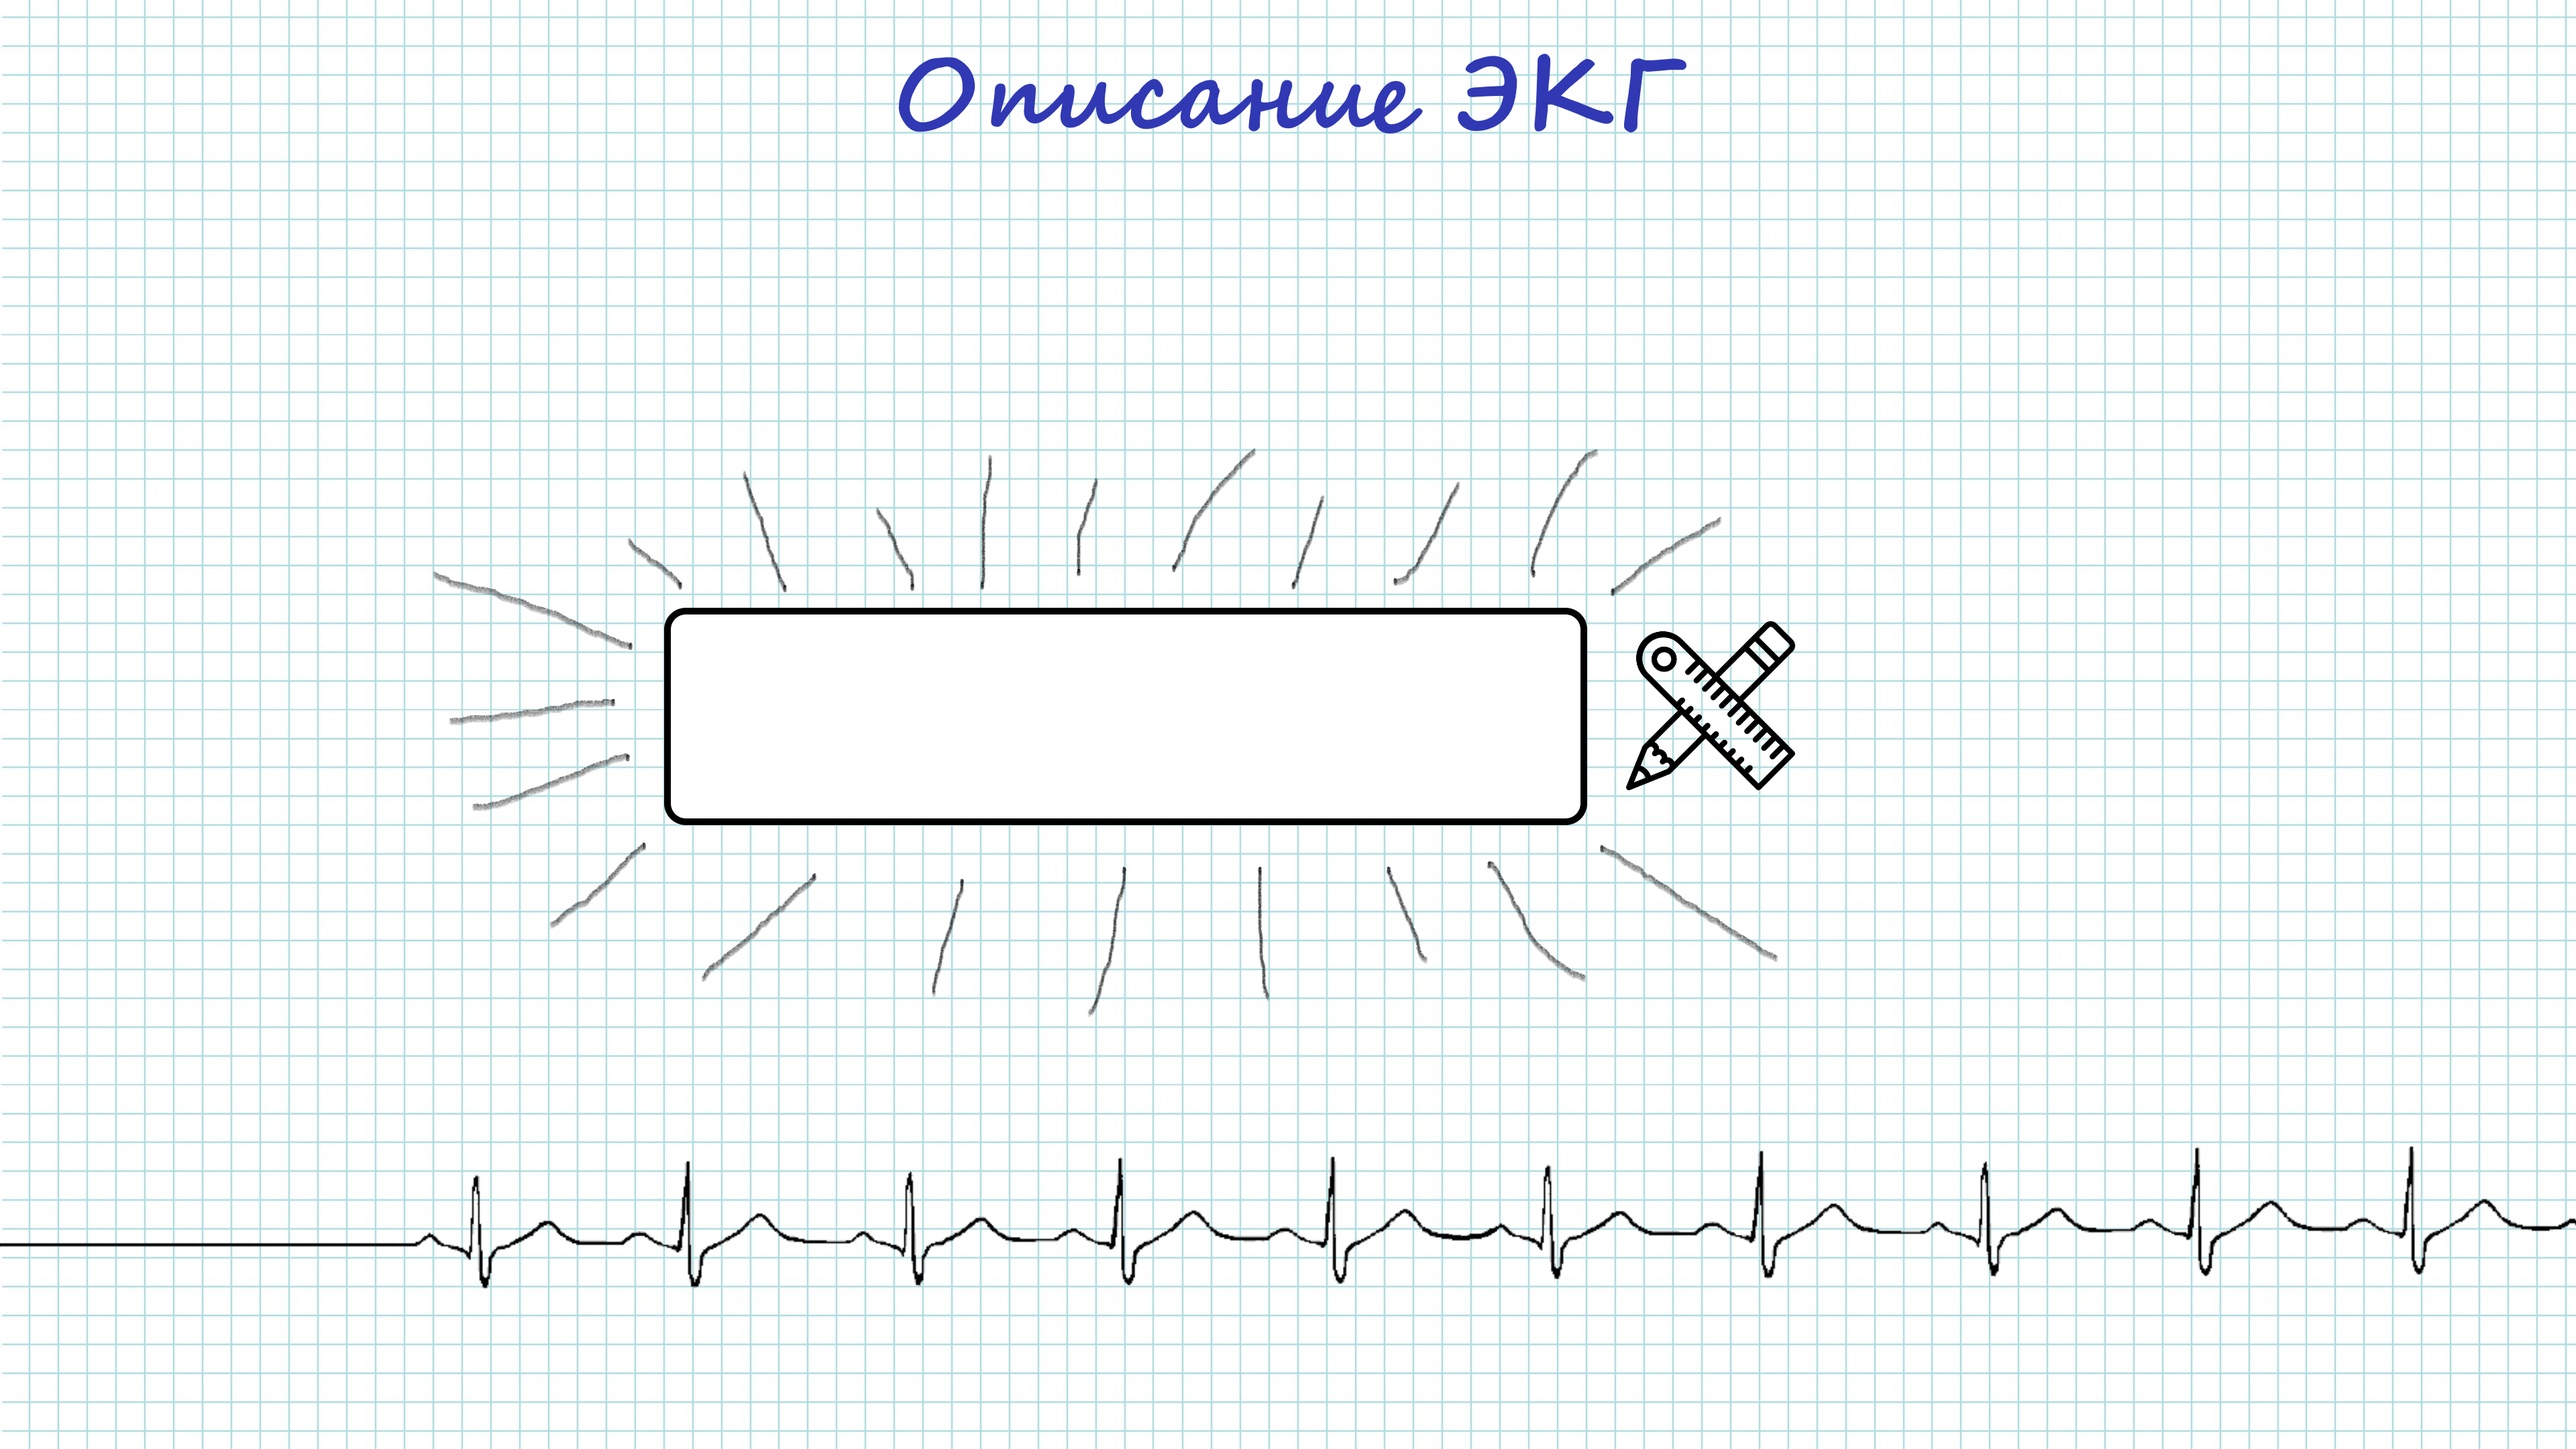
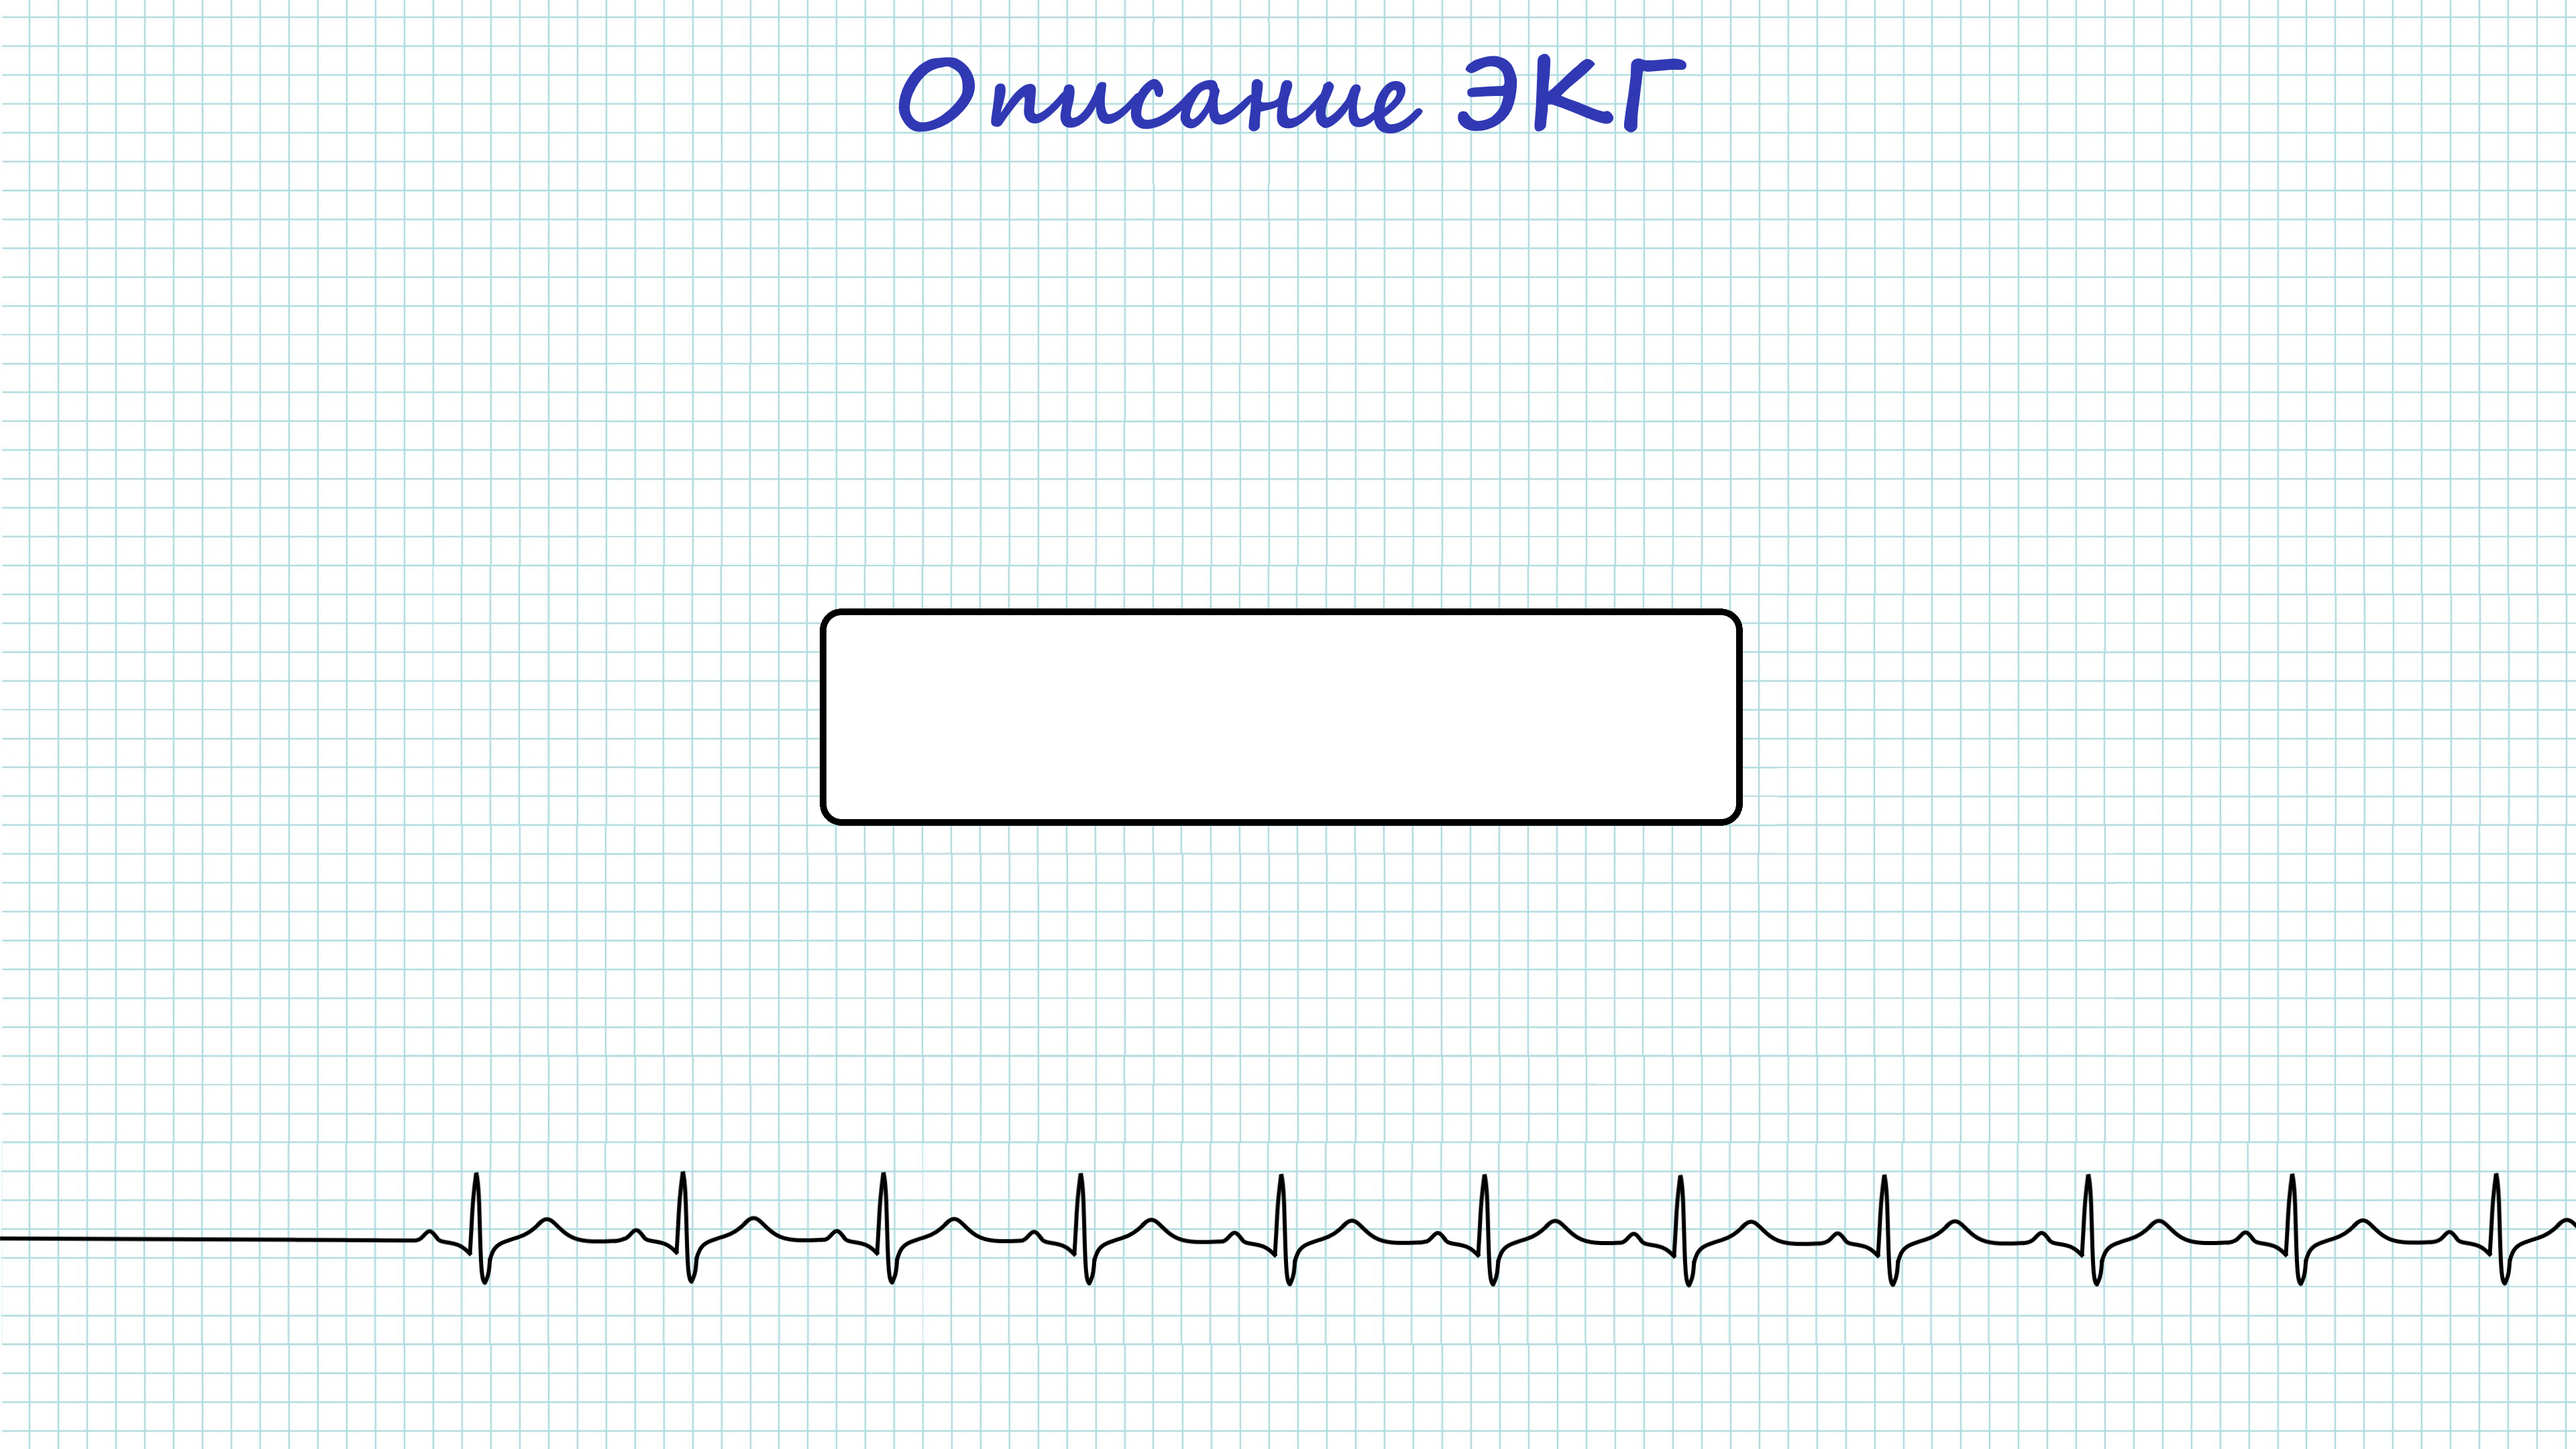
First version of new interface Новая версия пользовательского интерфейса. Идея заключалась в том, чтобы сделать его максимально минималистичным, унифицировать все шрифты и надписи.

diff --git a/app_main.py b/app_main.py
@@ -38,15 +38,16 @@ main_group.add_objects(bg)
 exit_btn = Button(pw(95), ph(3), ph(6), ph(6), 'exit_button.png', canvas, 'exit_button_2.png', main_cycle.close_window)
 main_group.add_objects(exit_btn)
 
-btn = Button(pw(28), ph(44), ph(12), ph(12), 'open_file.png', canvas, 'open_file_2.png', main_cycle.set_file_name)
+btn = Button(pw(34), ph(44), ph(12), ph(12), 'open_file.png', canvas, 'open_file_2.png', main_cycle.set_file_name)
 main_group.add_objects(btn)
 
-btn = Button(pw(40), ph(44.5), pw(20), pw(6), 'start_scanning.png', canvas, 'start_scanning_2.png',
+btn = Button(pw(46), ph(44.5), pw(20), pw(6), 'start_scanning.png', canvas, 'start_scanning_2.png',
              main_cycle.start_scanning)
 main_group.add_objects(btn)
 
-main_group.add_objects(Text(pw(1), ph(90), f'Сергей - puhovskijsa@kuzstu.ru\nПавел - pavelpolkovnikov334@gmail.com',
-                            canvas, font=f'Times {ph(3)} bold', visibility=True, color='#798a9c'))
+# Наш тэг
+main_group.add_objects(Text(pw(1), ph(89), f'Сергей - puhovskijsa@kuzstu.ru\nПавел - pavelpolkovnikov334@gmail.com',
+                            canvas, font=f'Montserrat {ph(3)} bold', visibility=True, color='#798a9c'))
 
 master.protocol("WM_DELETE_WINDOW", main_cycle.close_window)  # ▼ всё что ниже - неизменно ▼
 master.bind('<Motion>', main_cycle.mouse_move)

diff --git a/data/main_cycle.py b/data/main_cycle.py
@@ -1,6 +1,4 @@
 import asyncio, time
-import tkinter
-
 from data.functions import pw, ph
 from data.objects import *
 from tkinter.filedialog import askopenfilename
@@ -156,8 +154,8 @@ class MainCycle:
         self.obj_result = Object(pw(85), ph(87), pw(10), ph(10), 'button_result.png', self.canvas)
         self.view_group.add_objects(self.obj_result)
 
-        self.text_css = Text(pw(80), ph(3), f'{round(self.graphic.heart_rate, 1)} уд/мин', self.canvas, anchor='ne',
-                             font=f'Times {ph(3)} italic bold', visibility=False)
+        self.text_css = Text(pw(80), ph(2), f'{round(self.graphic.heart_rate, 1)} уд/мин', self.canvas,
+                             font=f'Montserrat {ph(3)}', visibility=False, anchor='ne')
         self.view_group.add_objects(self.text_css)
 
         self.view_group.show_all()
@@ -212,7 +210,7 @@ class MainCycle:
         self.obj_result.change_img('button_result_2.png', pw(50), ph(50))
         self.obj_result.go_to(pw(45), ph(47))
         text = self.graphic.get_text_of_general_information()
-        self.test_result = Text(pw(50), ph(55), text, self.canvas, font=f'Times {ph(2)} italic bold')
+        self.test_result = Text(pw(48), ph(54), text, self.canvas, font=f'Montserrat {ph(1.9)}')
 
     def hide_result(self):
         self.obj_result.change_img('button_result.png', pw(10), ph(10))
